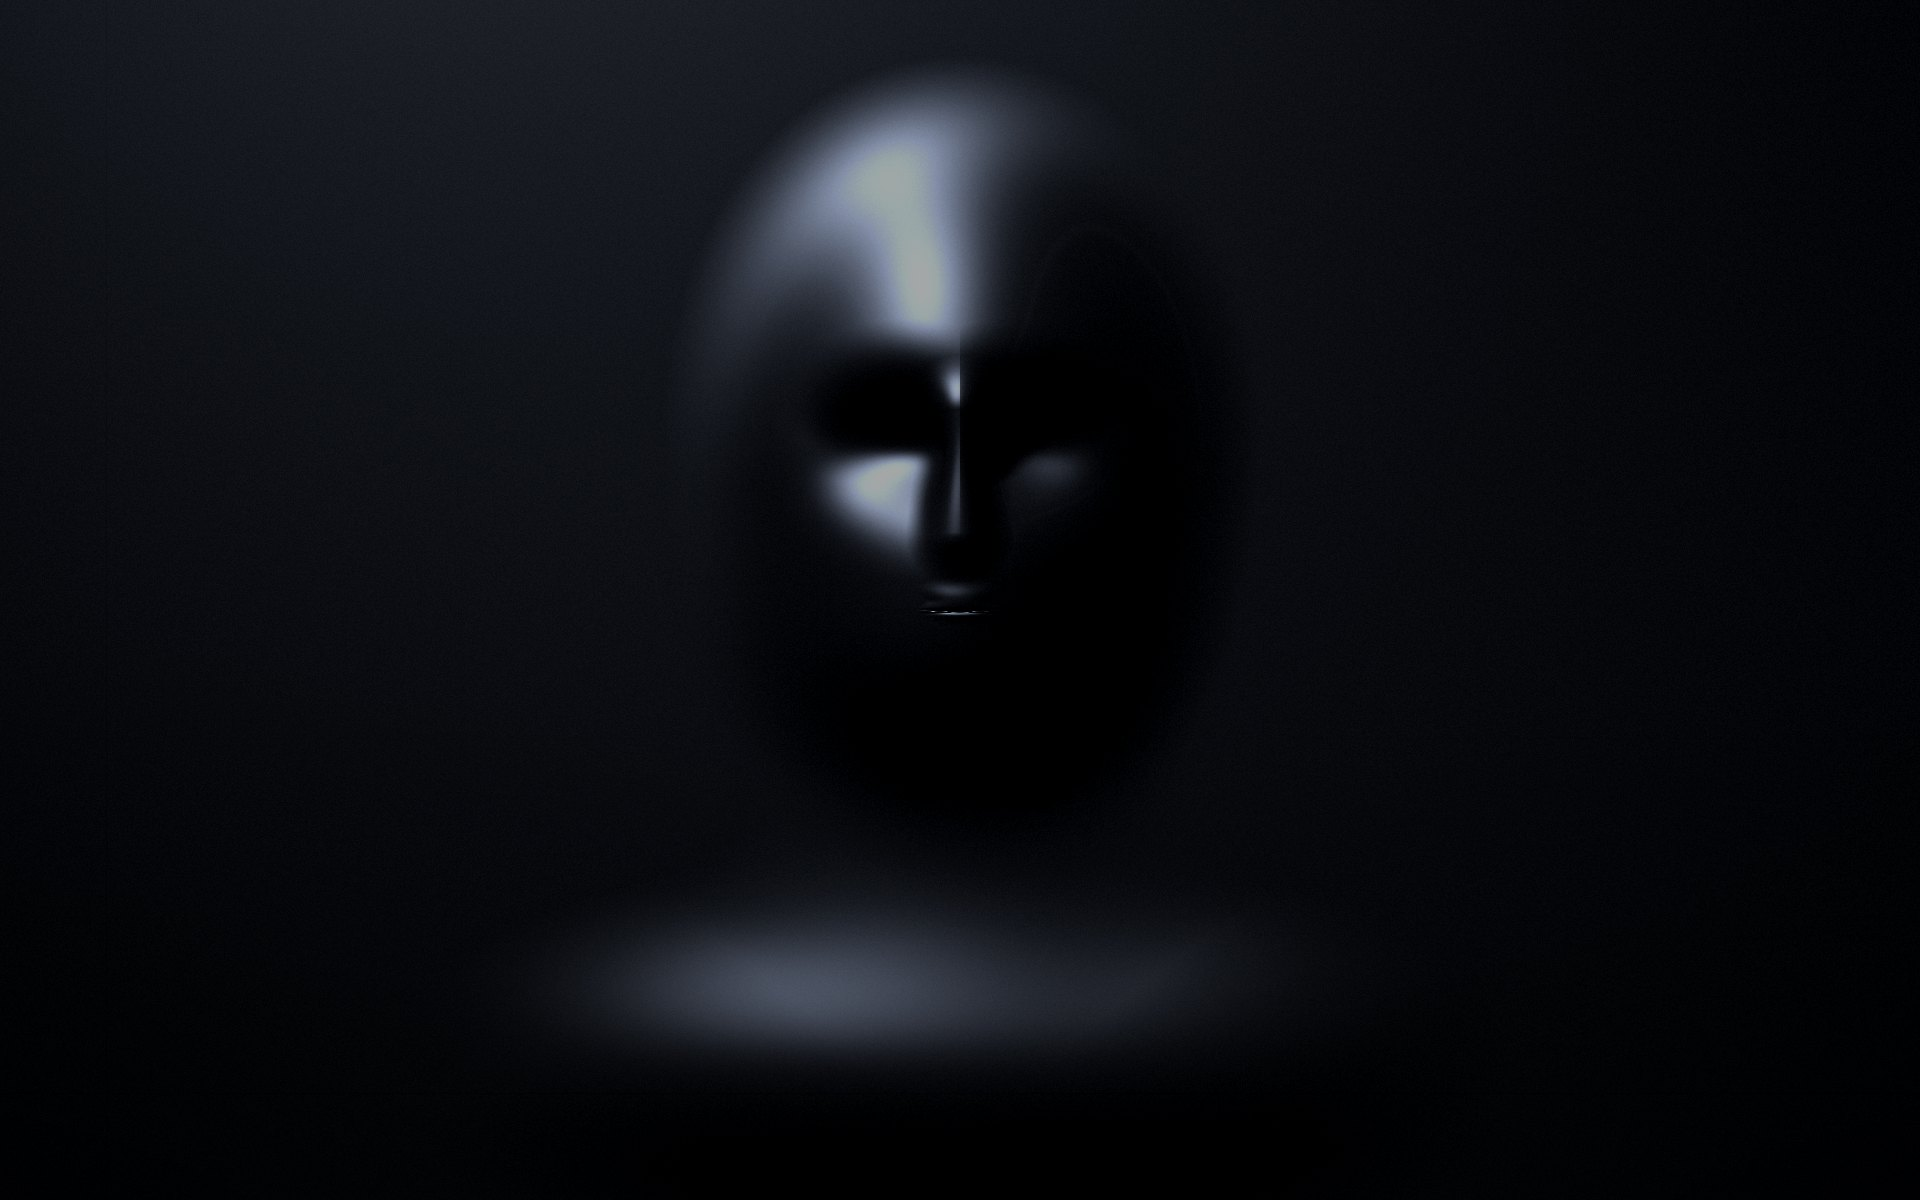
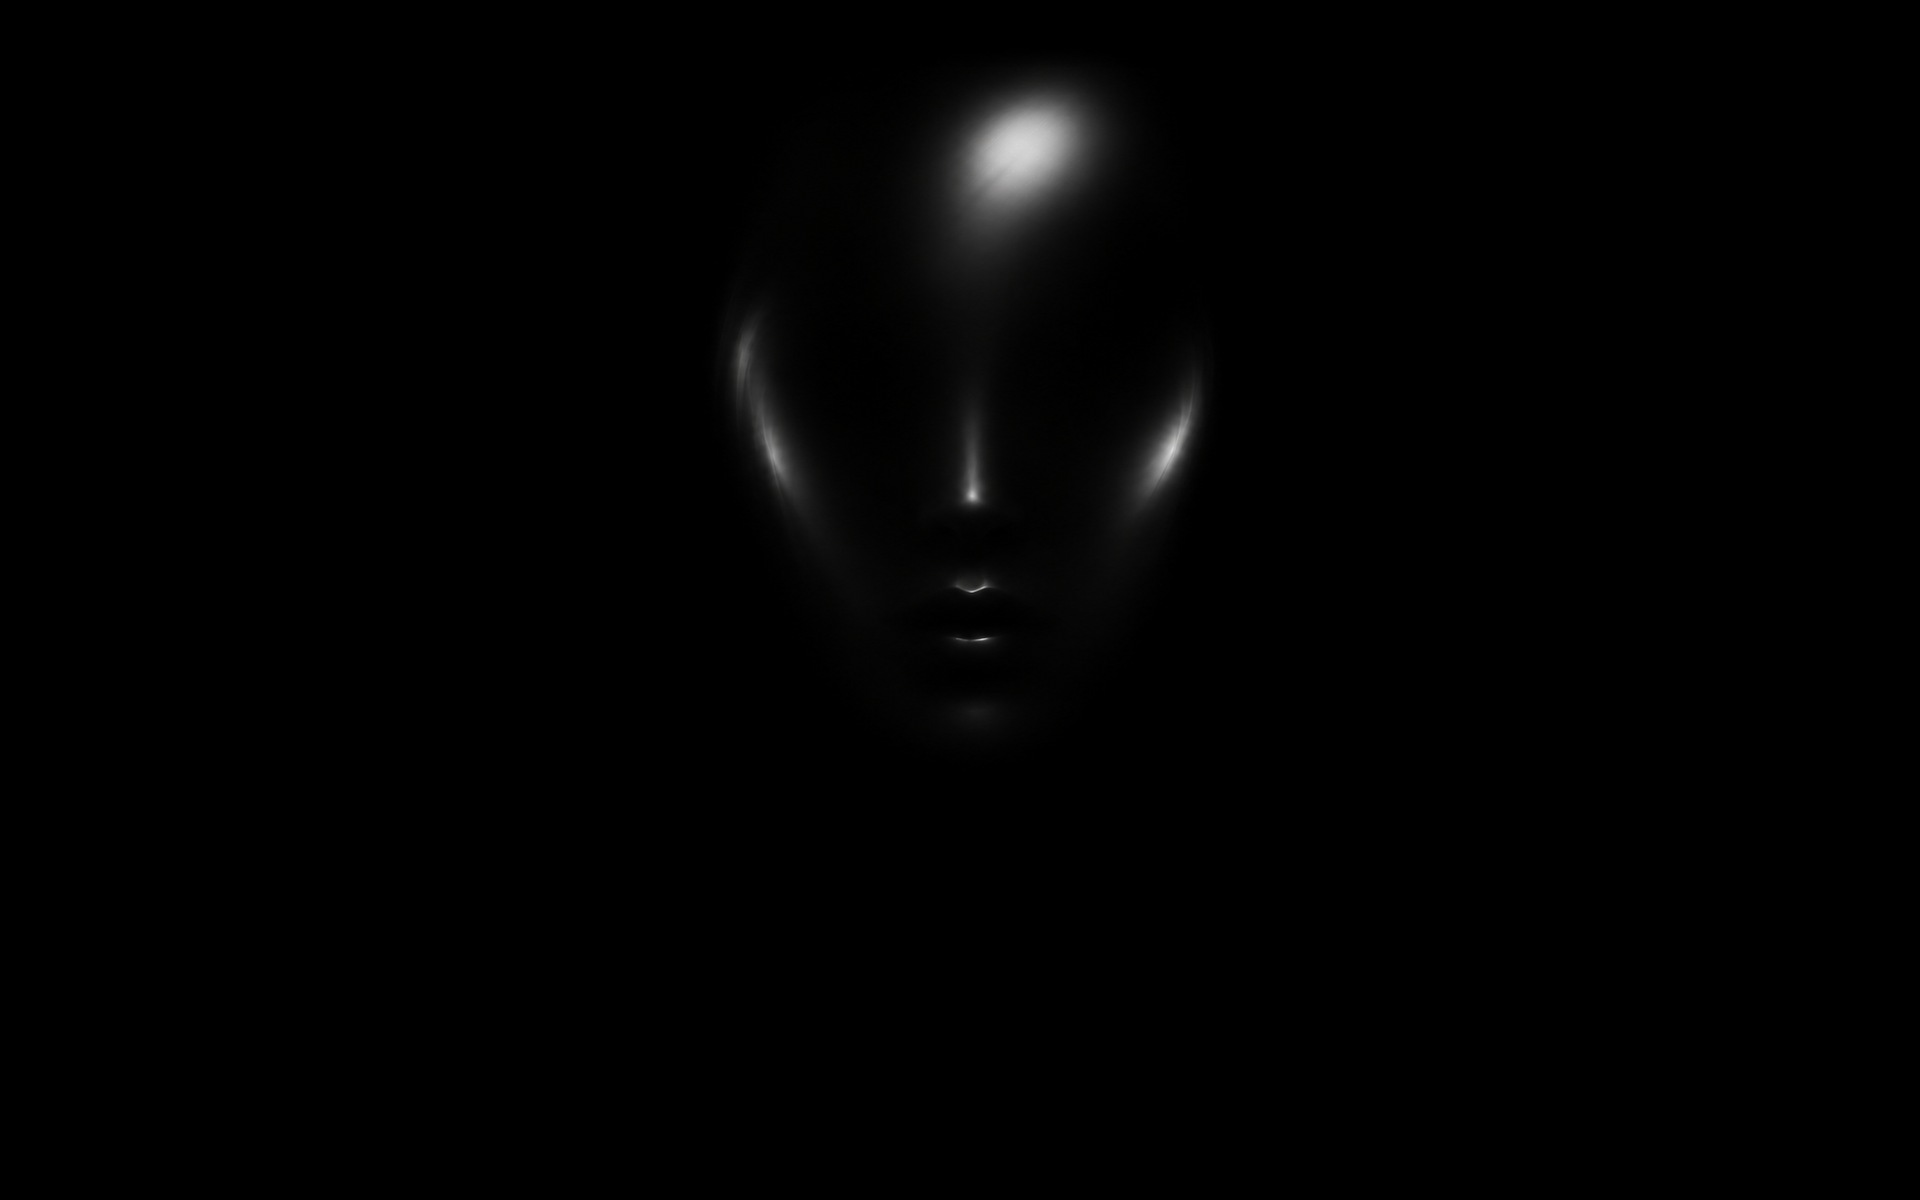
Entry face: Lucille's glossy faceless mask image
Replaces the coded latex render with her generated image, scaled so the
chin clears the question on desktop and phone, edges feathered to black.
Drops the unused eye experiments from this branch.

Claude-Session: https://claude.ai/code/session_01Mu3q116eiEEHwDTAbdrsQN

Changed region(s): [[0.0, 0.0, 0.6562, 0.4933], [0.2812, 0.74, 0.6562, 0.8942]]

diff --git a/assets/main.js b/assets/main.js
@@ -393,7 +393,7 @@ window.addEventListener("resize", () => { clearTimeout(resizeT); resizeT = setTi
     ent.resize(); ent.setSource(document.createElement("canvas")); ent.start();
     const face = new Image();
     face.onload = () => ent.setSource(face);
-    face.src = innerWidth < innerHeight ? "images/gate-face-p.jpg" : "images/gate-face-l.jpg";
+    face.src = innerWidth < innerHeight ? "images/gate-face-p.jpg?v=4" : "images/gate-face-l.jpg?v=4";
     requestAnimationFrame(() => ecv.classList.add("on"));
     let lp = null;
     gate.addEventListener("pointermove", (e) => {

diff --git a/index.html b/index.html
@@ -171,6 +171,6 @@
   </div>
 </div>
 <!--PAGE-END-->
-<script src="assets/main.js?v=face3"></script>
+<script src="assets/main.js?v=face4"></script>
 </body>
 </html>
